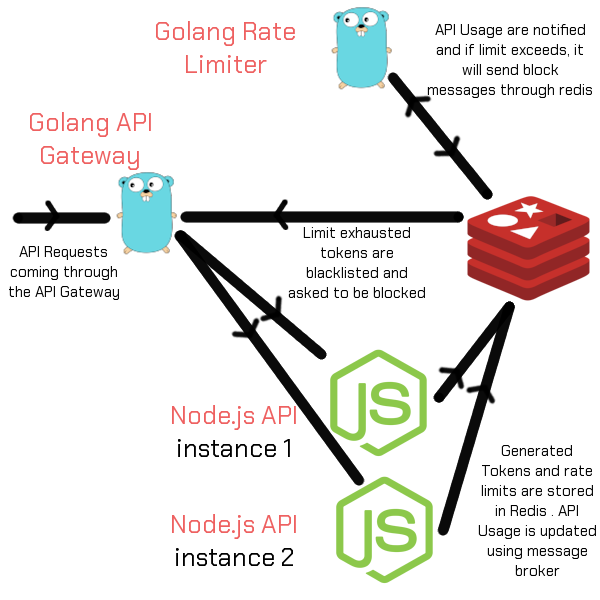
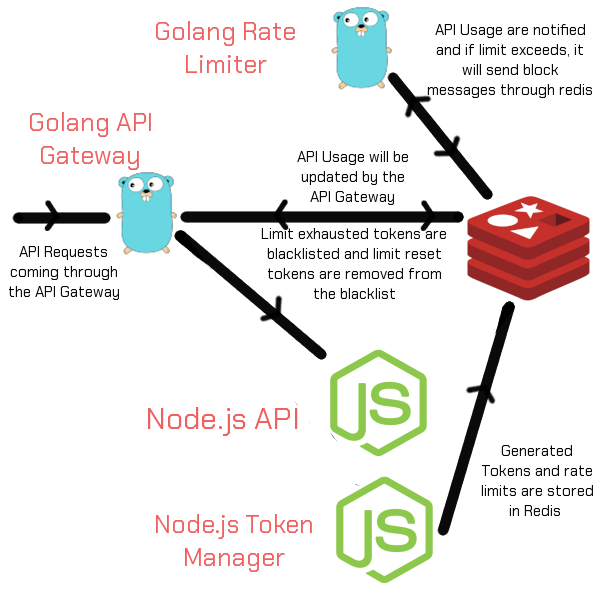
Changed the architecture for api gateway to recieve reste and block channels

diff --git a/app/models/api.go b/app/models/api.go
@@ -34,6 +34,12 @@ const (
 	ADD Type = iota
 	//RESET will reset the the current api usage to 0
 	RESET
+	//BLOCK request is to block the api token
+	BLOCK
+	//STATUS request is to know the status of a token
+	STATUS
+	//OK request indicates that the status of the token is ok and not blacklisted
+	OK
 )
 
 //RateRequest is the request to update the rate
